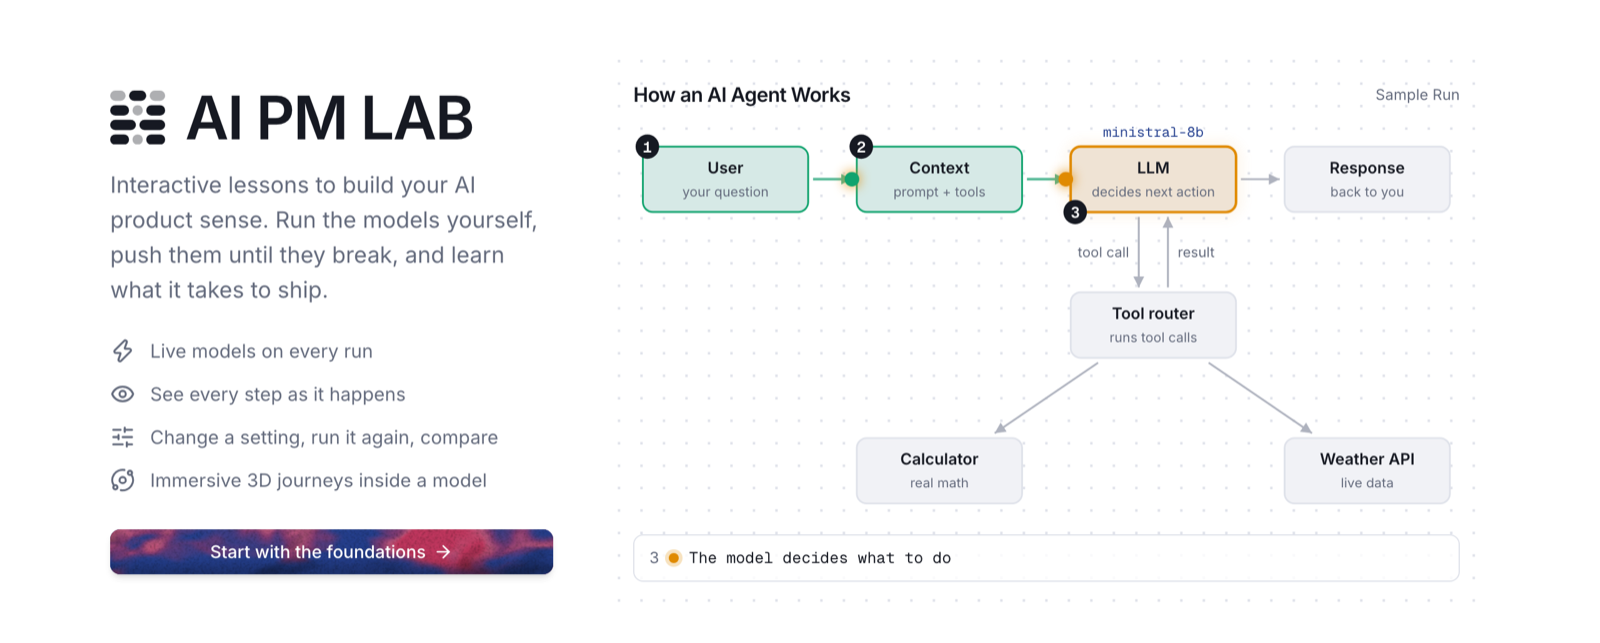
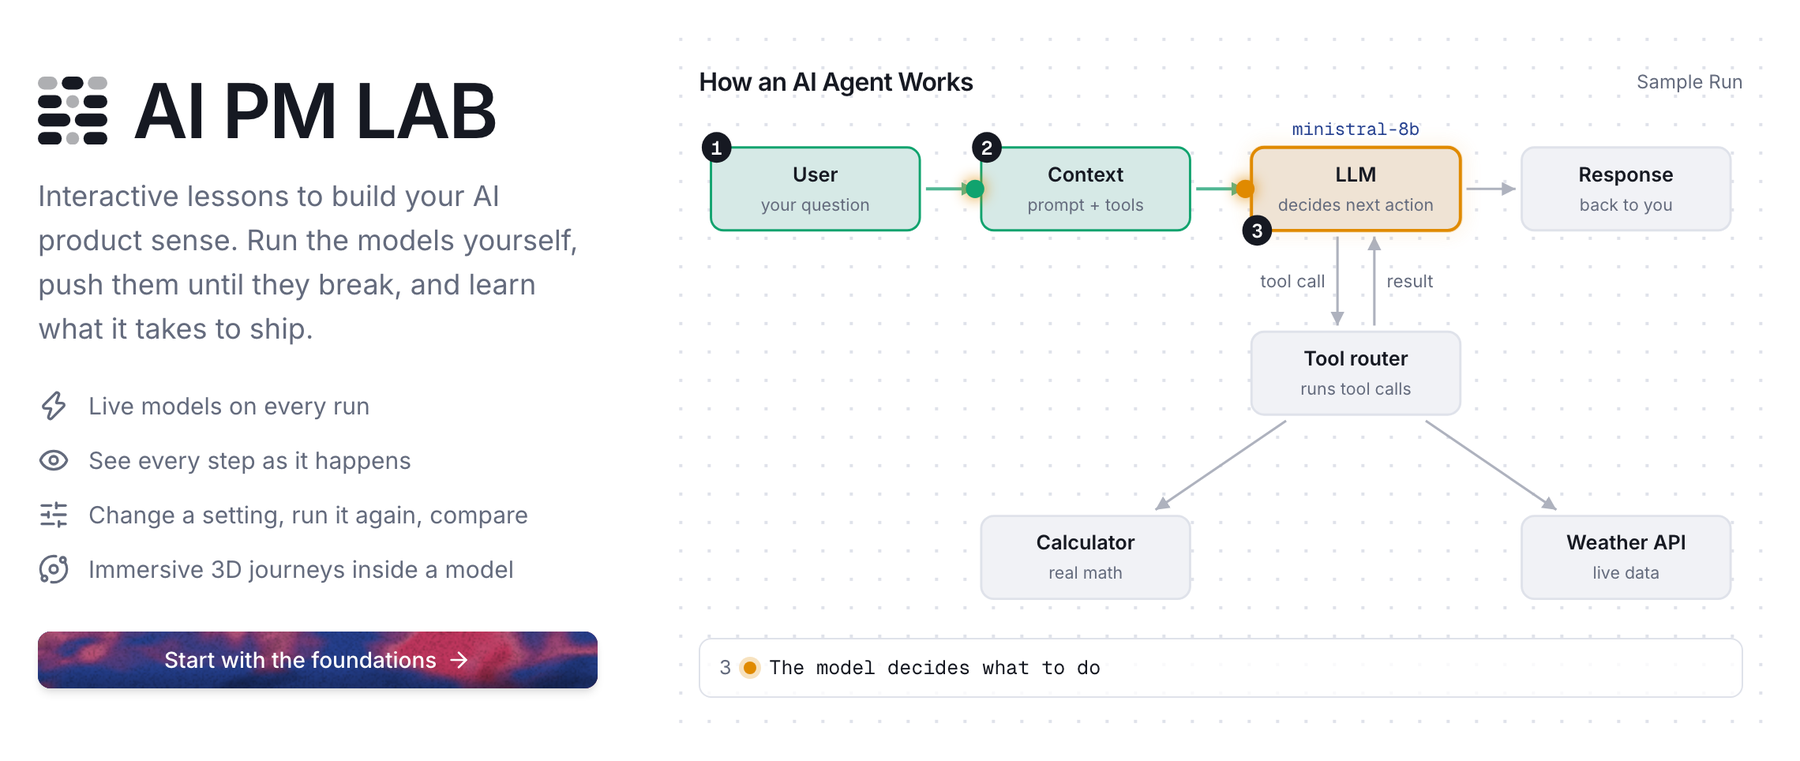
Enlarge AI PM Lab screenshot and drop redundant caption

diff --git a/README.md b/README.md
@@ -10,9 +10,7 @@ Currently an AI Product Manager and builder at [Booz Allen Hamilton](https://www
 
 **Featured: [AI PM Lab](https://aipmlab.io)**
 
-<a href="https://aipmlab.io"><img src="assets/aipmlab.png" alt="AI PM Lab — interactive lessons that build AI product sense" width="600"></a>
-
-Interactive lessons that build AI product sense for product managers.
+<a href="https://aipmlab.io"><img src="assets/aipmlab.png" alt="AI PM Lab — interactive lessons that build AI product sense"></a>
 
 **Other Projects**
 
